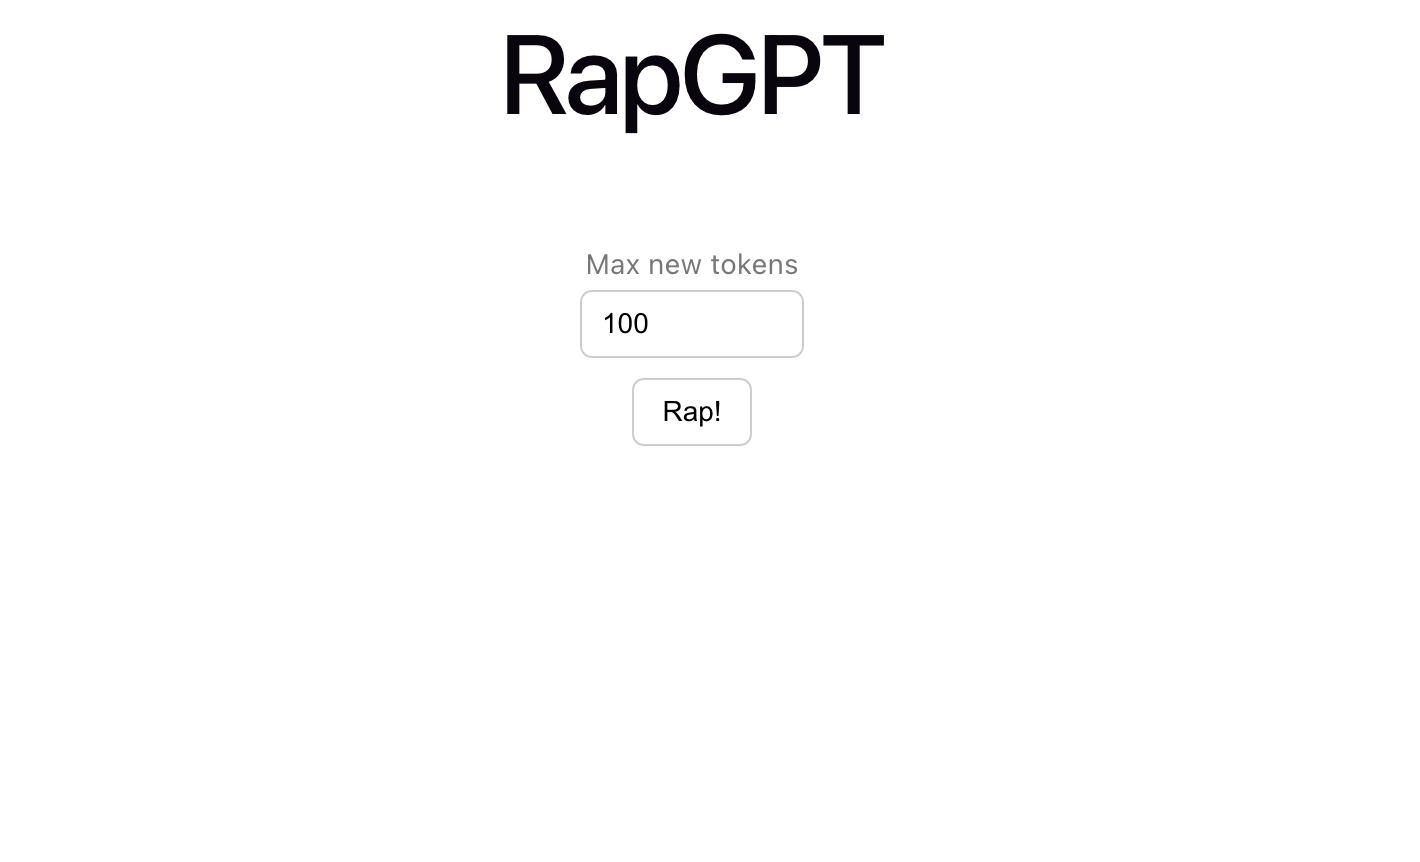
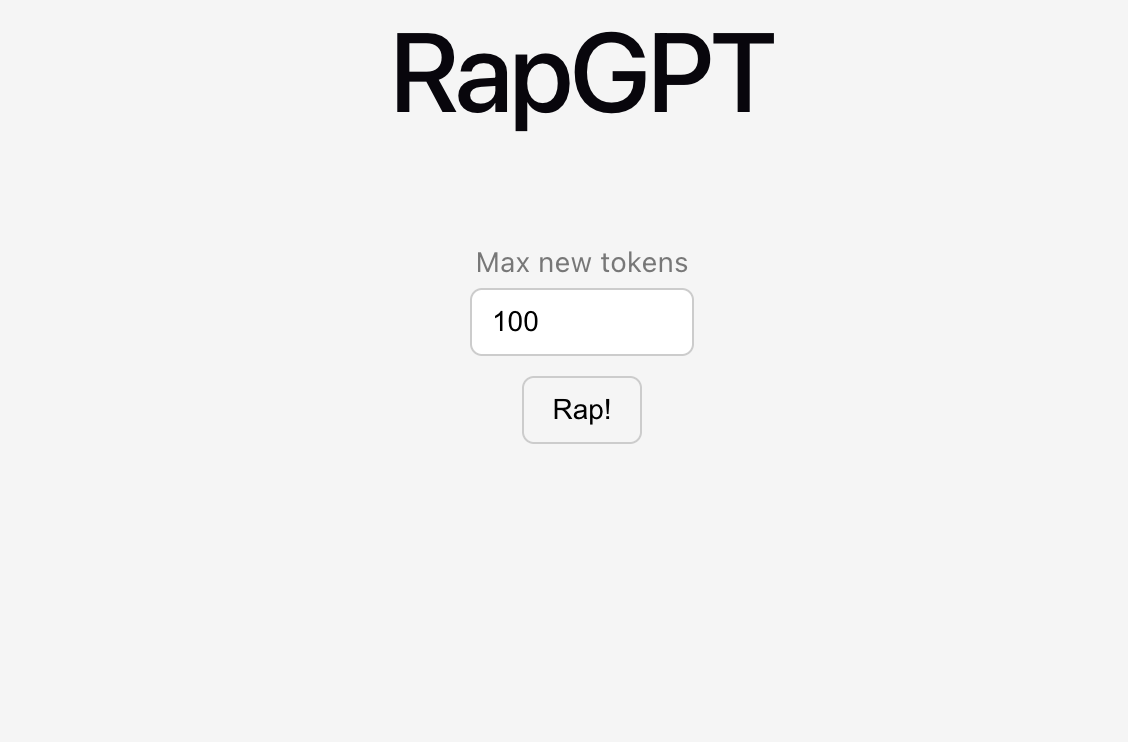
docs: updated README

Changed region(s): [[0.3413, 0.031, 0.6826, 0.186], [0.4034, 0.279, 0.6206, 0.5889]]

diff --git a/frontend/src/App.tsx b/frontend/src/App.tsx
@@ -39,7 +39,7 @@ function App() {
       </button>
       </div>
 
-      <pre className="output">{output}</pre>
+      <pre>{output}</pre>
     </div>
   );
 }

diff --git a/frontend/src/index.css b/frontend/src/index.css
@@ -46,6 +46,7 @@
 
 body {
   margin: 0;
+  background-color: #f5f5f5;
 }
 
 h1,
@@ -125,3 +126,4 @@ p {
   text-align: center;
   
 }
+
